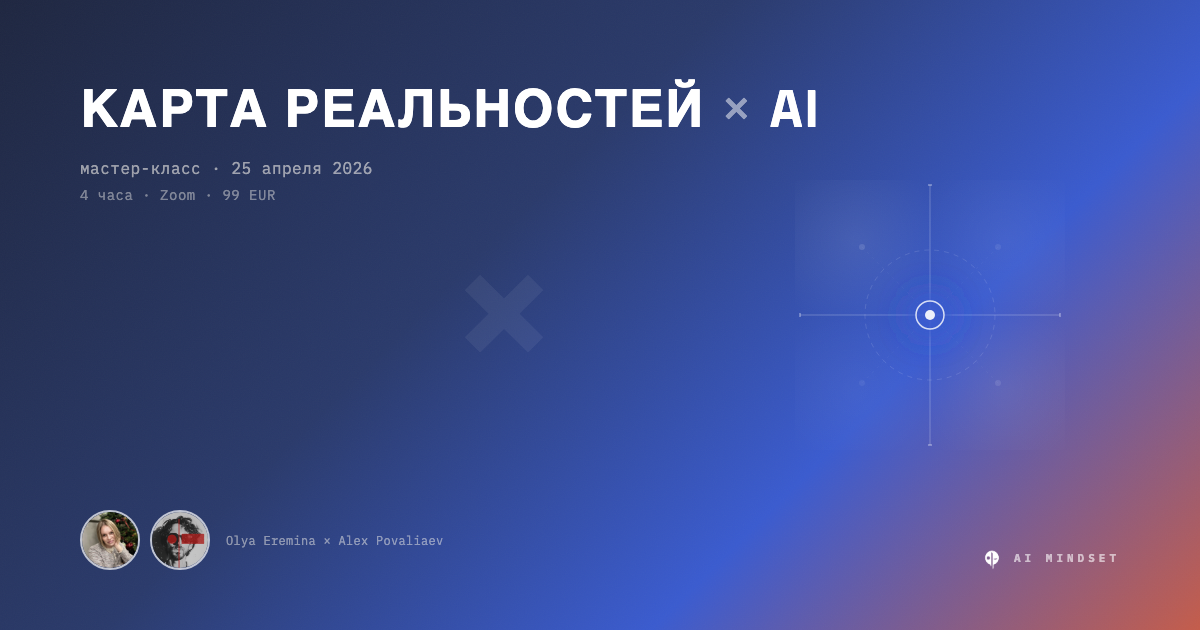
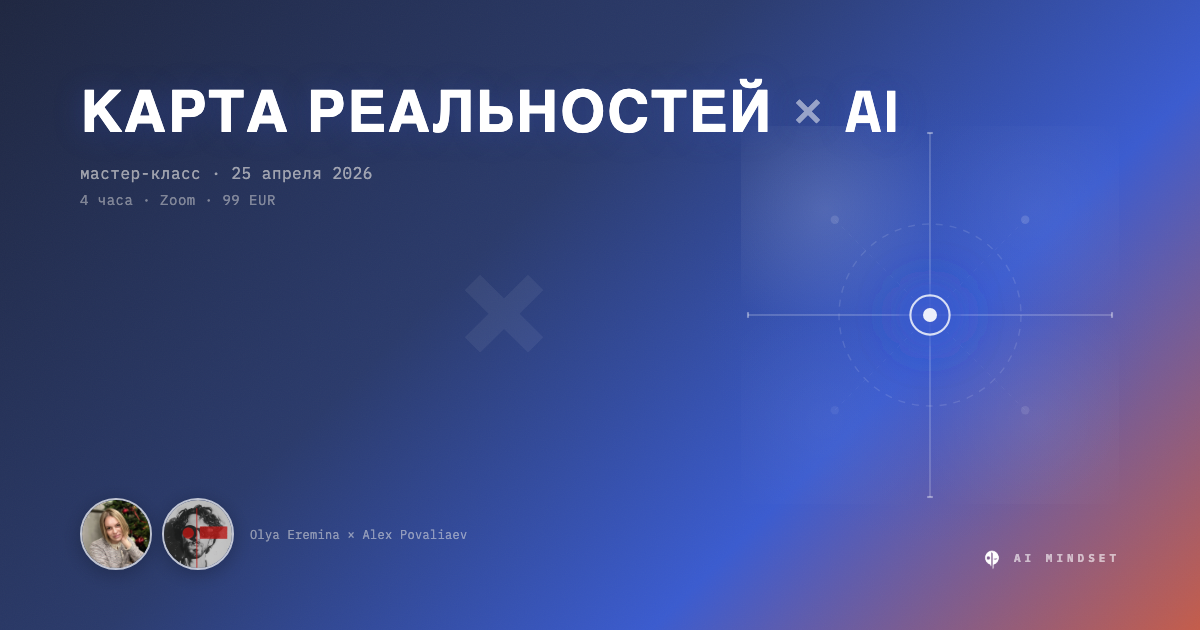
Fix OG URLs to Netlify + enhanced OG cover + deploy
- OG meta tags: apowall.github.io → four-realities-workshop.netlify.app
- OG cover: larger quadrant (420px), brighter glow, bigger title/photos
- Speaker photos: 72px with shadow, less grayscale

diff --git a/assets/og-cover.html b/assets/og-cover.html
@@ -62,12 +62,13 @@
 
   .title {
     font-family: var(--sans);
-    font-size: 52px;
+    font-size: 58px;
     font-weight: 700;
     color: #fff;
     letter-spacing: 2px;
-    line-height: 1.15;
+    line-height: 1.12;
     margin-bottom: 18px;
+    text-shadow: 0 2px 30px rgba(58,91,207,0.3);
   }
 
   .title .x-mark {
@@ -109,12 +110,13 @@
   }
 
   .speaker-photos img {
-    width: 60px;
-    height: 60px;
+    width: 72px;
+    height: 72px;
     border-radius: 50%;
-    border: 2px solid rgba(255, 255, 255, 0.7);
+    border: 2.5px solid rgba(255, 255, 255, 0.7);
     object-fit: cover;
-    filter: grayscale(30%);
+    filter: grayscale(20%);
+    box-shadow: 0 4px 20px rgba(0,0,0,0.25);
   }
 
   .speaker-names {
@@ -148,15 +150,25 @@
     color: rgba(255, 255, 255, 0.6);
   }
 
-  /* ── 4-quadrant diagram: center-right ── */
+  /* ── 4-quadrant diagram: center-right, larger & juicier ── */
   .quadrant-wrap {
     position: absolute;
     top: 50%;
-    right: 120px;
+    right: 60px;
     transform: translateY(-50%);
-    width: 300px;
-    height: 300px;
+    width: 420px;
+    height: 420px;
     z-index: 4;
+  }
+
+  /* Mesh glow behind diagram */
+  .quadrant-wrap::before {
+    content: '';
+    position: absolute;
+    inset: -60px;
+    background: radial-gradient(ellipse at center, rgba(58,91,207,0.25) 0%, transparent 60%);
+    z-index: -1;
+    pointer-events: none;
   }
 
 </style>
@@ -213,7 +225,7 @@
 
         <!-- Radial gradient for quadrant fills -->
         <radialGradient id="qFill1" cx="75" cy="75" r="90" gradientUnits="userSpaceOnUse">
-          <stop offset="0%" stop-color="rgba(255,255,255,0.08)"/>
+          <stop offset="0%" stop-color="rgba(255,255,255,0.14)"/>
           <stop offset="100%" stop-color="rgba(255,255,255,0)"/>
         </radialGradient>
         <radialGradient id="qFill2" cx="225" cy="75" r="90" gradientUnits="userSpaceOnUse">
@@ -259,7 +271,7 @@
 
       <!-- Subtle dots at quadrant centers -->
       <circle cx="82" cy="82" r="3" fill="rgba(255,255,255,0.12)"/>
-      <circle cx="218" cy="82" r="3" fill="rgba(255,255,255,0.08)"/>
+      <circle cx="218" cy="82" r="3" fill="rgba(255,255,255,0.14)"/>
       <circle cx="82" cy="218" r="3" fill="rgba(255,255,255,0.06)"/>
       <circle cx="218" cy="218" r="3" fill="rgba(255,255,255,0.10)"/>
 

diff --git a/index.html b/index.html
@@ -6,10 +6,10 @@
 <meta property="og:title" content="Карта Реальностей x AI – воркшоп 25 апреля 2026">
 <meta property="og:description" content="реальность имеет 4 параллельные логики. мастер-класс: персональная карта реальностей + AI. 25 апреля, 99 EUR, 36 мест.">
 <meta property="og:type" content="website">
-<meta property="og:url" content="https://apowall.github.io/four-realities-workshop/">
-<meta property="og:image" content="https://apowall.github.io/four-realities-workshop/assets/og-cover.png">
+<meta property="og:url" content="https://four-realities-workshop.netlify.app/">
+<meta property="og:image" content="https://four-realities-workshop.netlify.app/assets/og-cover.png">
 <meta name="twitter:card" content="summary_large_image">
-<meta name="twitter:image" content="https://apowall.github.io/four-realities-workshop/assets/og-cover.png">
+<meta name="twitter:image" content="https://four-realities-workshop.netlify.app/assets/og-cover.png">
 <title>Карта Реальностей x AI – воркшоп 25 апреля 2026</title>
 <style>
   @import url('https://fonts.googleapis.com/css2?family=IBM+Plex+Mono:ital,wght@0,400;0,500;0,600;0,700;1,400&family=Space+Grotesk:wght@400;500;600;700&display=swap');
